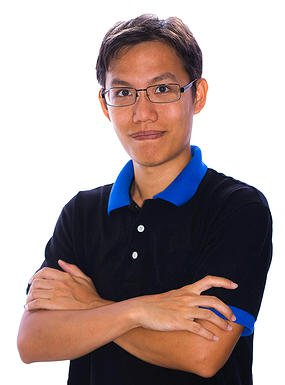
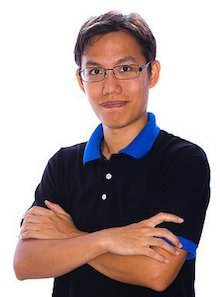
Page speed enhancement

diff --git a/README.md b/README.md
@@ -20,3 +20,8 @@ Remember to add to webpack.config.js to exclude the external javascript to be in
 ## Node Server
 NodeJS server is moved into /dist/main/ folder. To start, either execute build-dev-progressive or buildprod. Before executing npm start.
 All NodeJS server are stored in npm/ folder.
+
+##Enhance Image performance.
+Install magickImage and execute the command:
+export FILE=bg-pattern.gif
+magick convert $FILE -strip -sampling-factor 4:2:0 -quality 85 -colorspace sRGB $FILE
